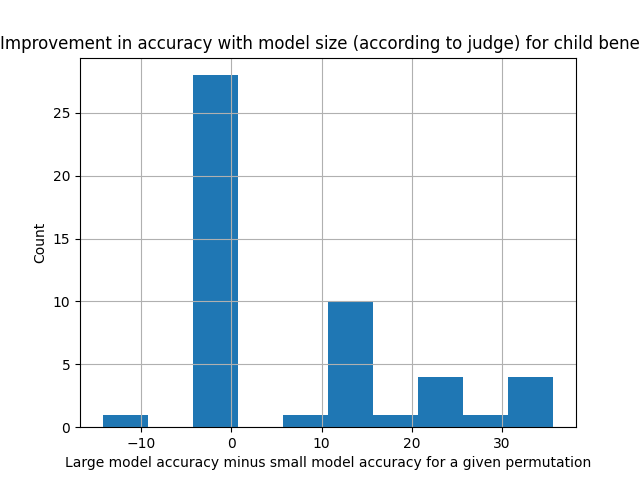
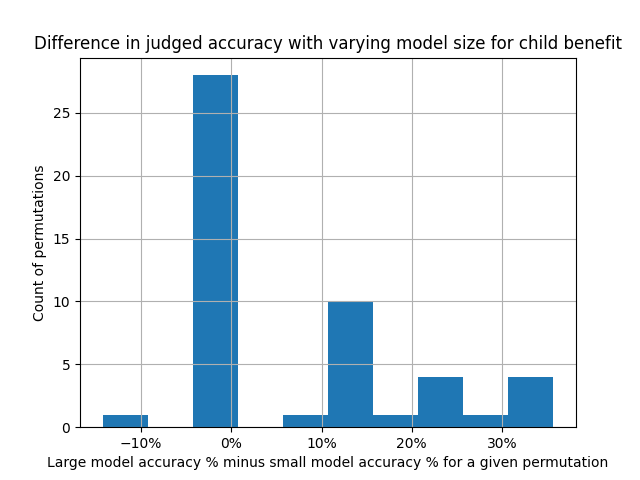
Add better axis labels

Changed region(s): [[0.0, 0.0625, 1.0, 0.125], [0.0625, 0.9062, 0.9688, 1.0], [0.0312, 0.3438, 0.0938, 0.6562]]

diff --git a/src/adk/test_analysis.py b/src/adk/test_analysis.py
@@ -6,6 +6,7 @@ import subprocess
 import numpy as np
 import pandas as pd
 import matplotlib.pyplot as plt
+import matplotlib
 import seaborn as sns
 
 
@@ -145,12 +146,12 @@ def main():
 
         fig = plt.figure(f"improvement_{test_case}")
         fig.clear()
-        (100 * large_model_improvement_by_permutation[test_case]).hist(
-        )
+        large_model_improvement_by_permutation[test_case].hist()
         ax = fig.get_axes()[0]
-        ax.set_title("Improvement in accuracy with model size (according to judge) for {}".format(test_case.replace("_", " ")))
-        ax.set_ylabel("Count")
-        ax.set_xlabel("Large model accuracy minus small model accuracy for a given permutation")
+        ax.set_title("Difference in judged accuracy with varying model size for {}".format(test_case.replace("_", " ")))
+        ax.set_ylabel("Count of permutations")
+        ax.set_xlabel("Large model accuracy % minus small model accuracy % for a given permutation")
+        ax.xaxis.set_major_formatter(matplotlib.ticker.PercentFormatter(1.0))
         fig.savefig(f"success_rates_by_permutation_model_size.improvement.hist.{test_case}.png")
 
 
